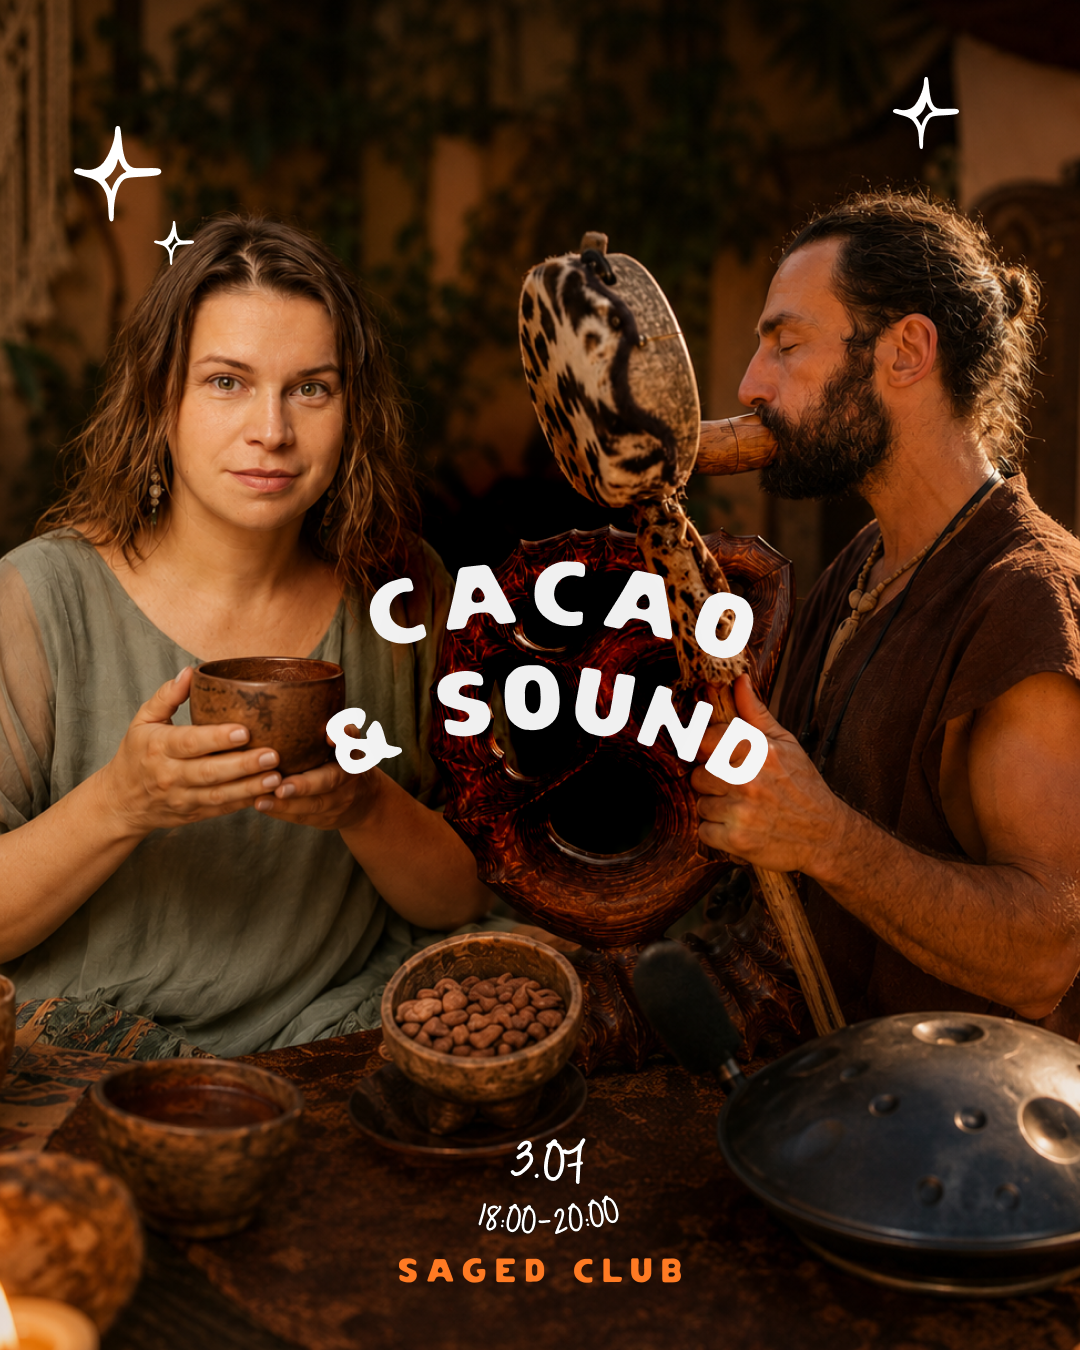
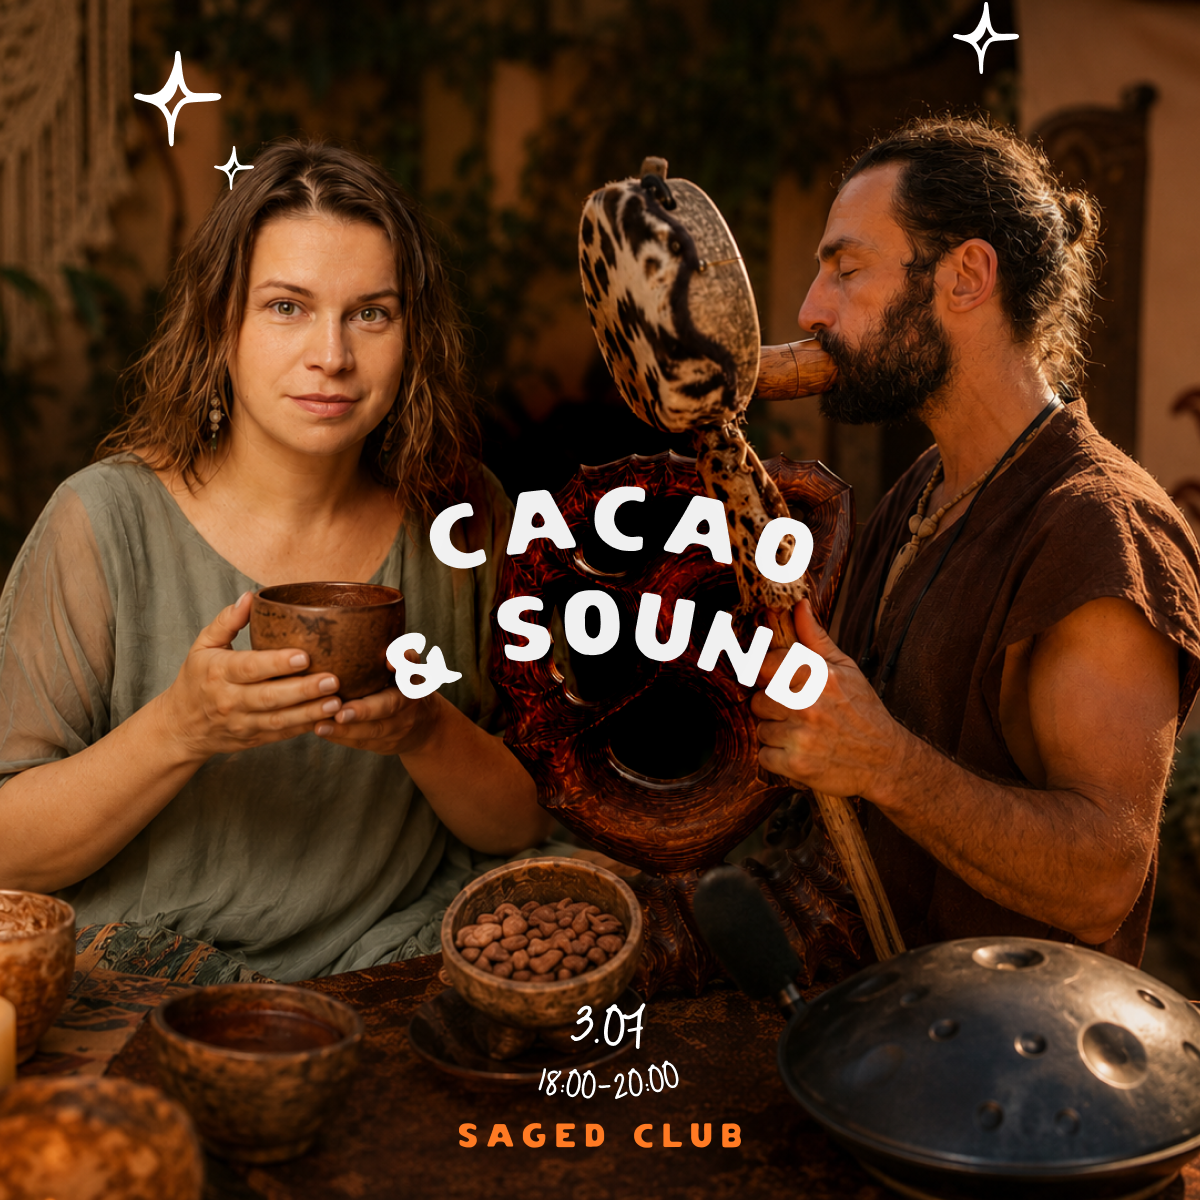
Events: replace covers with square versions, update aspect ratio

diff --git a/events/index.html b/events/index.html
@@ -54,7 +54,7 @@
 
   .ev-card__img {
     width: 100%;
-    aspect-ratio: 4 / 5;
+    aspect-ratio: 1 / 1;
     object-fit: cover;
     display: block;
   }
@@ -173,7 +173,7 @@
   @media (max-width: 600px) {
     .events-grid { grid-template-columns: 1fr; gap: 1rem; }
     .ev-card--wide { flex-direction: column; }
-    .ev-card--wide .ev-card__img { width: 100%; aspect-ratio: 4/5; }
+    .ev-card--wide .ev-card__img { width: 100%; aspect-ratio: 1/1; }
     .ev-card--wide .ev-card__body { padding: 1.25rem 1.25rem 1.5rem; }
   }
 </style>
